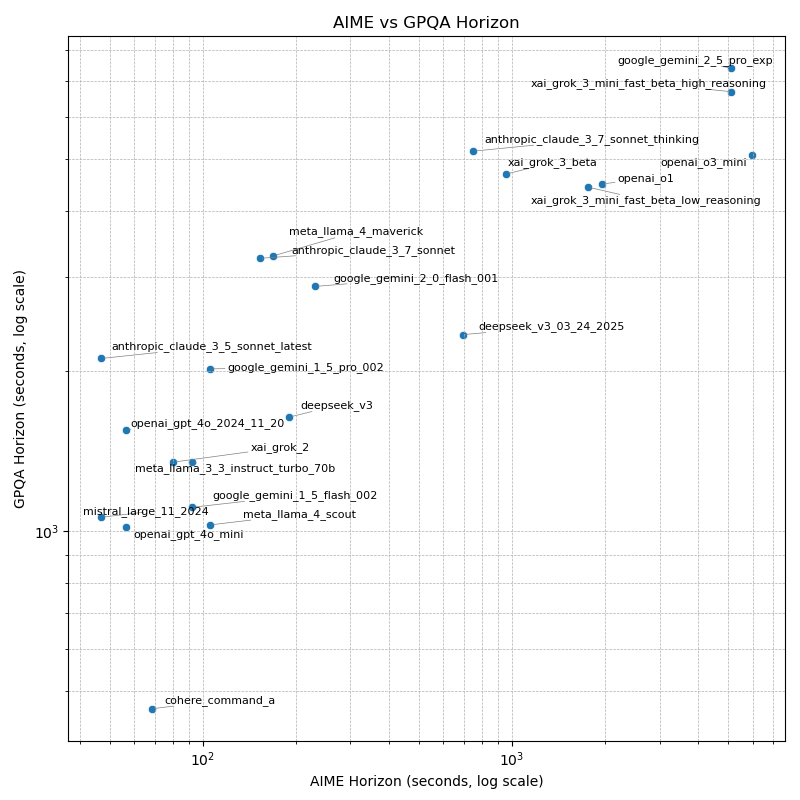
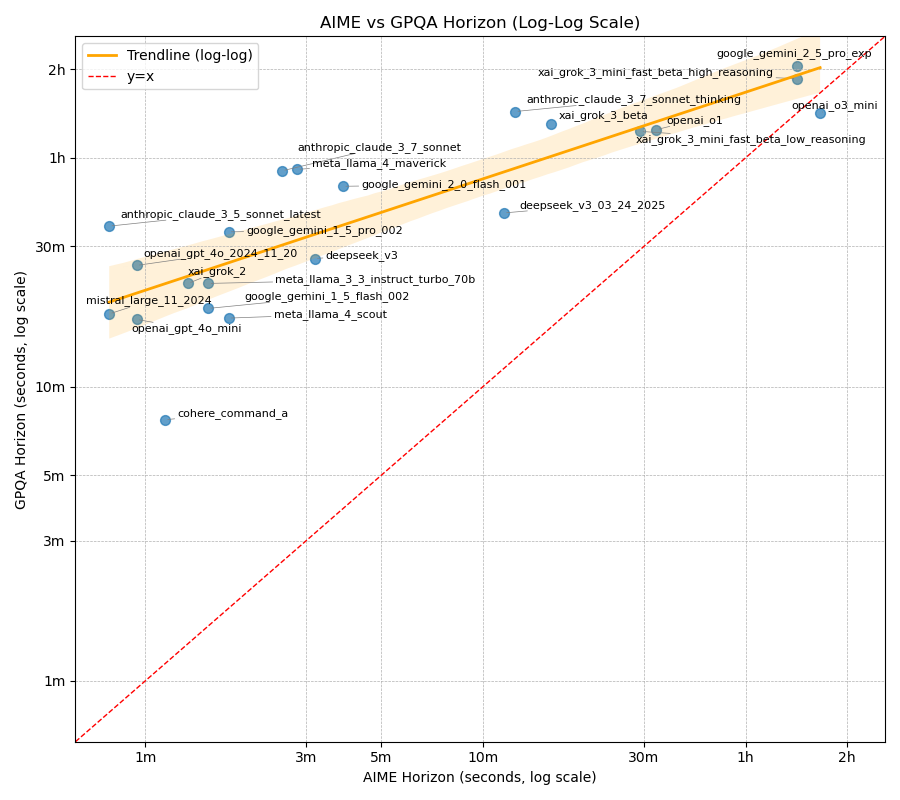
trendline and log scale for scatterplot

diff --git a/plots.py b/plots.py
@@ -6,6 +6,7 @@ import glob
 from scipy.stats import gmean
 import numpy as np
 import adjustText # Import adjustText
+import matplotlib.ticker as mticker # Import ticker
 
 DATA_DIR = 'data'
 BAR_PLOT_OUTPUT_FILE = 'plots/all.png'
@@ -133,39 +134,74 @@ def plot_scatter(df):
 
     # Filter for models present in both and with non-zero horizon
     scatter_data = pivot_df[required_cols].dropna()
-    scatter_data = scatter_data[(scatter_data['aime'] > 0) & (scatter_data['gpqa'] > 0)]
+    scatter_data = scatter_data[(scatter_data['aime'] > 0) & (scatter_data['gpqa'] > 0)].copy()
 
     if scatter_data.empty:
         print("No models found with valid horizons for both AIME and GPQA. Skipping scatter plot.")
         return
+        
+    # Apply log transformation manually
+    scatter_data['aime_log'] = np.log10(scatter_data['aime'])
+    scatter_data['gpqa_log'] = np.log10(scatter_data['gpqa'])
 
-    plt.figure(figsize=(8, 8))
-    ax = sns.scatterplot(data=scatter_data, x='aime', y='gpqa')
+    plt.figure(figsize=(9, 8))
 
-    # Set log scale for both axes
-    ax.set_xscale('log')
-    ax.set_yscale('log')
+    # Use regplot on the log-transformed data
+    ax = sns.regplot(
+        data=scatter_data, 
+        x='aime_log', 
+        y='gpqa_log', 
+        scatter_kws={'s': 50, 'alpha': 0.7},
+        line_kws={'color': 'orange', 'lw': 2, 'label': 'Trendline (log-log)'}
+    )
 
-    # Add labels and title
-    ax.set_xlabel("AIME Horizon (seconds, log scale)")
-    ax.set_ylabel("GPQA Horizon (seconds, log scale)")
-    ax.set_title("AIME vs GPQA Horizon")
+    # Determine limits for y=x line and axes in log space
+    min_log = min(scatter_data['aime_log'].min(), scatter_data['gpqa_log'].min()) - 0.1
+    max_log = max(scatter_data['aime_log'].max(), scatter_data['gpqa_log'].max()) + 0.1
+    ax.plot([min_log, max_log], [min_log, max_log], color='red', linestyle='--', lw=1, label='y=x')
 
-    # Optional: Add text labels for points (can get crowded)
+    # Set limits in log space
+    ax.set_xlim(min_log, max_log)
+    ax.set_ylim(min_log, max_log)
+
+    # Add labels and title for log axes
+    ax.set_xlabel("AIME Horizon (seconds, log scale)") # Clarify log scale
+    ax.set_ylabel("GPQA Horizon (seconds, log scale)") # Clarify log scale
+    ax.set_title("AIME vs GPQA Horizon (Log-Log Scale)")
+    
+    # --- Manual Tick Formatting --- 
+    # Define potential ticks in original scale (seconds)
+    potential_ticks_sec = np.array([1, 10, 30, 60, 180, 300, 600, 1800, 3600, 7200, 10800])
+    potential_ticks_labels = ['1s', '10s', '30s', '1m', '3m', '5m', '10m', '30m', '1h', '2h', '3h']
+    
+    # Filter ticks to be within the plotted range (in log10 space)
+    actual_ticks_log = np.log10(potential_ticks_sec)
+    valid_ticks_mask = (actual_ticks_log >= min_log) & (actual_ticks_log <= max_log)
+    
+    tick_positions = actual_ticks_log[valid_ticks_mask]
+    tick_labels = [potential_ticks_labels[i] for i, valid in enumerate(valid_ticks_mask) if valid]
+
+    # Set ticks and labels manually
+    ax.set_xticks(tick_positions)
+    ax.set_yticks(tick_positions)
+    ax.set_xticklabels(tick_labels)
+    ax.set_yticklabels(tick_labels)
+    ax.minorticks_off() # Turn off minor ticks which might look weird with manual major ticks
+    # --- End Manual Tick Formatting --- 
+
+    # Add text labels for points using log coordinates
     texts = []
     for i, point in scatter_data.iterrows():
-        texts.append(plt.text(point['aime'], point['gpqa'], i, fontsize=8))
+        texts.append(plt.text(point['aime_log'], point['gpqa_log'], i, fontsize=8))
     
-    # Use adjustText to prevent labels overlapping
     adjustText.adjust_text(texts, arrowprops=dict(arrowstyle='-', color='gray', lw=0.5))
 
     ax.grid(True, which="both", ls="--", linewidth=0.5)
+    ax.legend()
     plt.tight_layout()
 
-    # Ensure output directory exists
-    os.makedirs(os.path.dirname(SCATTER_PLOT_OUTPUT_FILE), exist_ok=True)
-
     # Save the plot
+    os.makedirs(os.path.dirname(SCATTER_PLOT_OUTPUT_FILE), exist_ok=True)
     plt.savefig(SCATTER_PLOT_OUTPUT_FILE)
     print(f"Scatter plot saved to {SCATTER_PLOT_OUTPUT_FILE}")
     plt.close()
